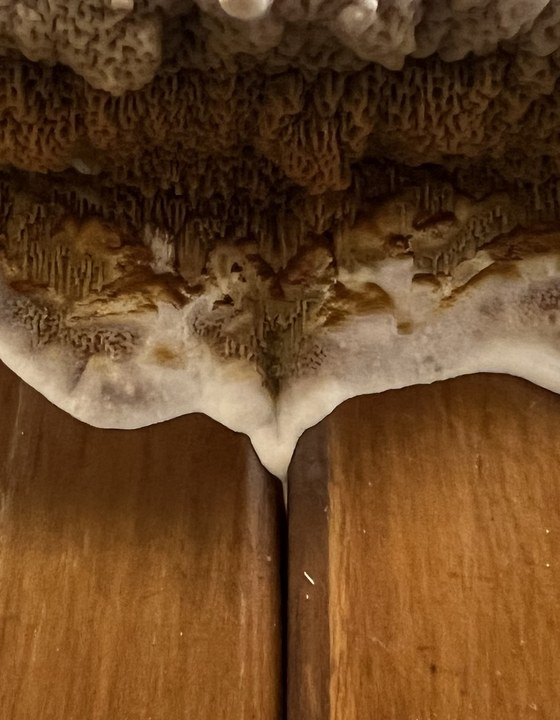
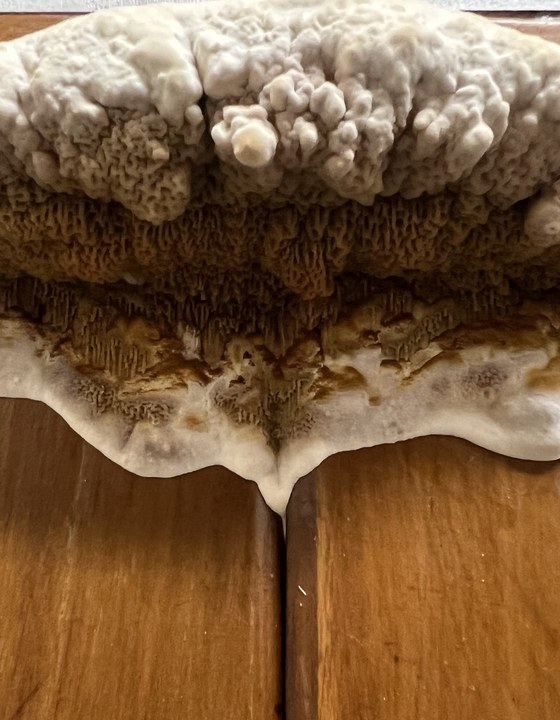
Dry Rot photo: zoom out so the whole fruiting body reads
The shipped crop zoomed 1.5x into just the porous underside edge, which
was grainy and unrecognisable as a mushroom. Re-cropped from the
original (iNaturalist 619091268, David Orlovich) to the widest
note-free portrait the 2048x1536 source allows (~1.9x downscale, so
it's sharp): the full cushion cap, weeping brown underside, and the
white margin dripping onto the door all fit the 560x720 frame. The
handwritten "leave for trap" note along the top stays out of frame.

Verified in the built game: the Dry Rot portrait + detail card render
the whole mushroom clearly.

Claude-Session: https://claude.ai/code/session_01CgGUkw5aUKtUAGfWeZXo2s

diff --git a/dist/artifact.html b/dist/artifact.html
@@ -1444,8 +1444,8 @@
 <div id="ui"></div>
 <script>
 'use strict';
-window.__ASSET_VER = "lii6ma";
-globalThis.__BUILD__ = "local 07-22 13:45";
+window.__ASSET_VER = "143vocj";
+globalThis.__BUILD__ = "local 07-22 13:55";
 
 // ===================== src/config.js =====================
 const __m_config = (function () {

diff --git a/dist/index.html b/dist/index.html
@@ -1450,8 +1450,8 @@
 <div id="ui"></div>
 <script>
 'use strict';
-window.__ASSET_VER = "lii6ma";
-globalThis.__BUILD__ = "local 07-22 13:45";
+window.__ASSET_VER = "143vocj";
+globalThis.__BUILD__ = "local 07-22 13:55";
 
 // ===================== src/config.js =====================
 const __m_config = (function () {
